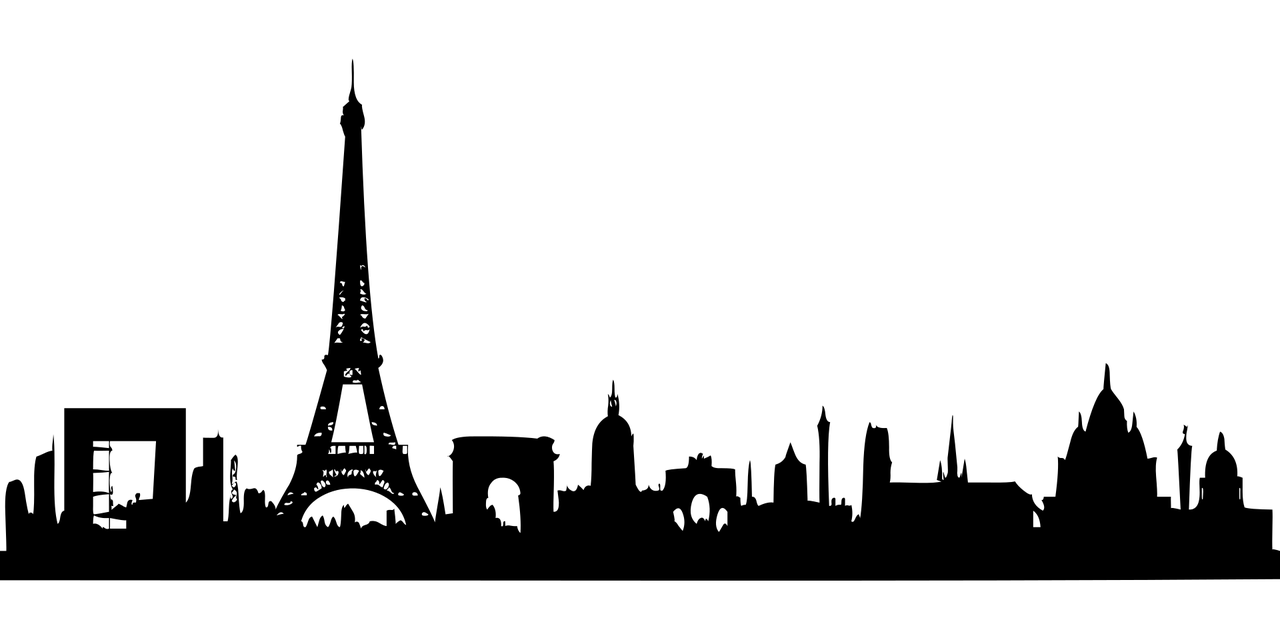
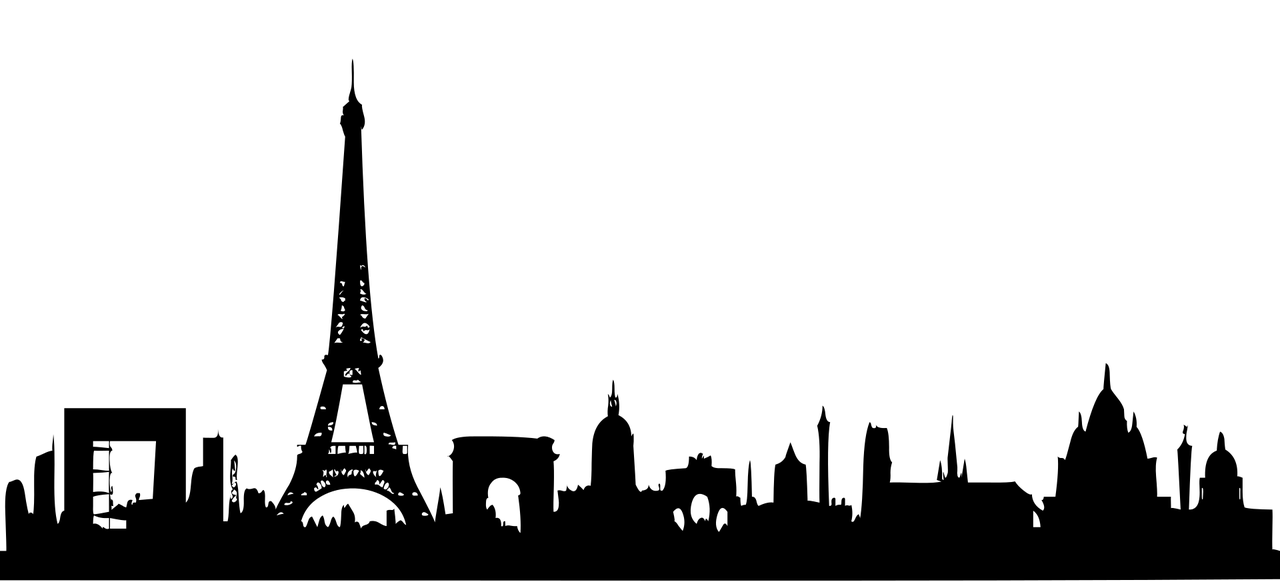
added image background

Changed region(s): [[0.0, 0.4337, 1.0, 1.0], [0.25, 0.1549, 0.2812, 0.1859]]

diff --git a/src/pages/Index.vue b/src/pages/Index.vue
@@ -36,6 +36,8 @@
       <img src="https://www.fillmurray.com/100/100" alt="Bill">
     </div>
 
+    <div class="col skyline"></div>
+
   </q-page>
 </template>
 
@@ -53,6 +55,13 @@ export default {
 <style lang="sass">
   .q-page
     background: linear-gradient(to top, #00b4db, #0083b0)
+  
   .degree
     top: -44px;
+
+  .skyline
+    flex: 0 0 100px
+    background: url(../assets/skyline.png)
+    background-size: contain
+    background-position: center bottom
 </style>
